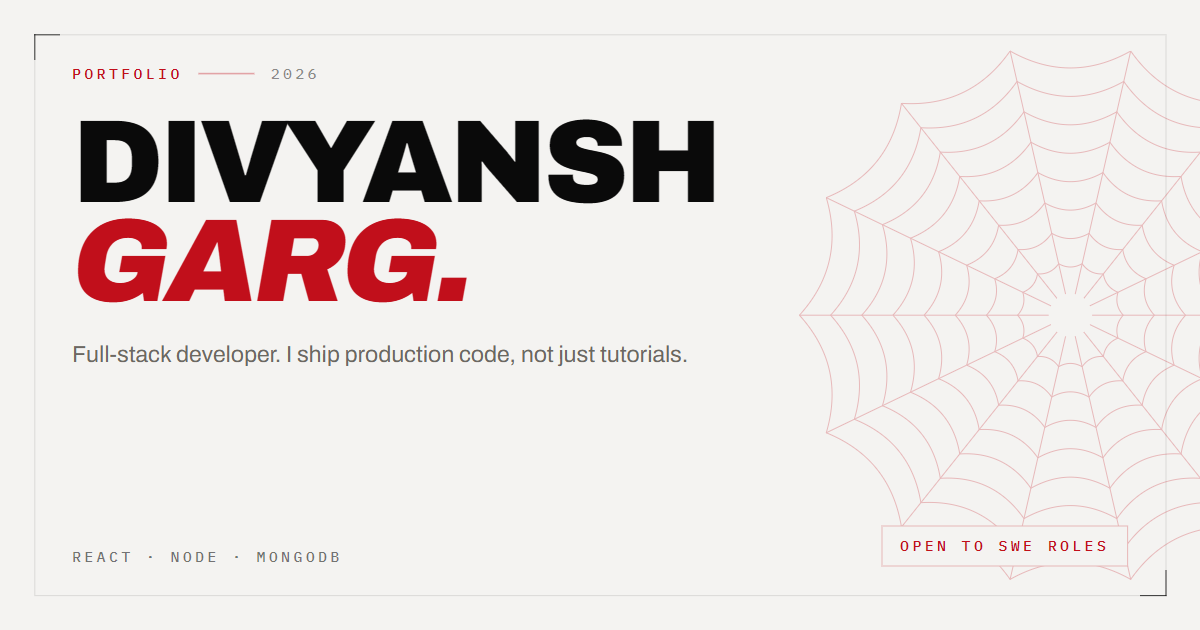
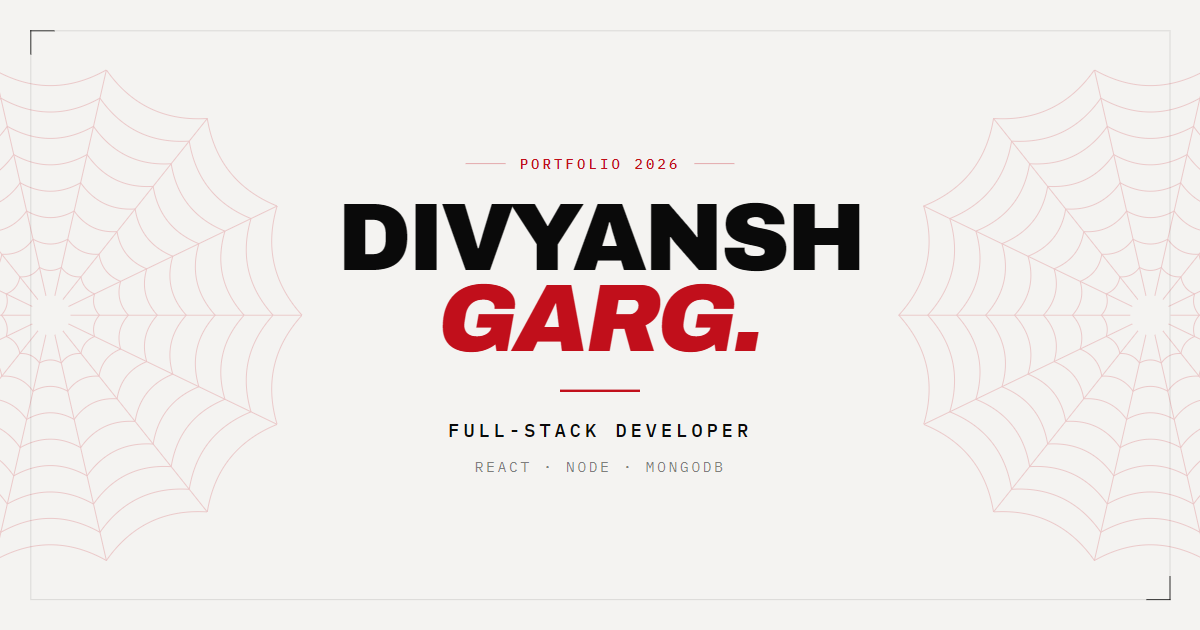
fix(og): recompose link-preview card to survive a centre-square crop
WhatsApp, Telegram and iMessage crop a 1200x630 og:image to a square and
render it as a small thumbnail. The old card put the wordmark on the left,
so the crop landed mid-word and previewed as "YANSH / RG." with no name,
role or context visible.

Recomposed as a centred column: everything that carries meaning - name,
role and stack - now sits inside the middle 560px, the safe area that
survives the crop. The web motifs moved to the outer edges, where a square
crop cannot slice one in half, and still fill the wide format for the
platforms that honour it (LinkedIn, Slack, Twitter, Facebook).

Verified by cropping the rendered card to 630x630 and downscaling to 100px:
the name is legible at thumbnail size, where it previously was not.

Also bump og:image and twitter:image to ?v=2. Those scrapers cache the
image hard and offer no public purge, so reusing the URL would have kept
serving the old card indefinitely. The JSON-LD image URL is left clean.

diff --git a/index.html b/index.html
@@ -21,8 +21,10 @@
   <meta property="og:title" content="Divyansh Garg — Full-Stack Developer" />
   <meta property="og:description"
     content="Full-stack developer building products end to end — React, Node, Express, MongoDB. Creator of GravLang and TalkSpace." />
-  <!-- Absolute URL: scrapers do not resolve relative og:image paths. -->
-  <meta property="og:image" content="https://divyanshgarg3105.netlify.app/og.png" />
+  <!-- Absolute URL: scrapers do not resolve relative og:image paths. The
+       ?v= is a cache key - WhatsApp, LinkedIn and Slack cache og:image hard
+       and offer no public purge, so bump it whenever og.png changes. -->
+  <meta property="og:image" content="https://divyanshgarg3105.netlify.app/og.png?v=2" />
   <meta property="og:image:type" content="image/png" />
   <meta property="og:image:width" content="1200" />
   <meta property="og:image:height" content="630" />
@@ -32,7 +34,7 @@
   <meta name="twitter:title" content="Divyansh Garg — Full-Stack Developer" />
   <meta name="twitter:description"
     content="Full-stack developer building products end to end — React, Node, Express, MongoDB. Creator of GravLang and TalkSpace." />
-  <meta name="twitter:image" content="https://divyanshgarg3105.netlify.app/og.png" />
+  <meta name="twitter:image" content="https://divyanshgarg3105.netlify.app/og.png?v=2" />
 
   <link rel="preconnect" href="https://fonts.googleapis.com" />
   <link rel="preconnect" href="https://fonts.gstatic.com" crossorigin />
